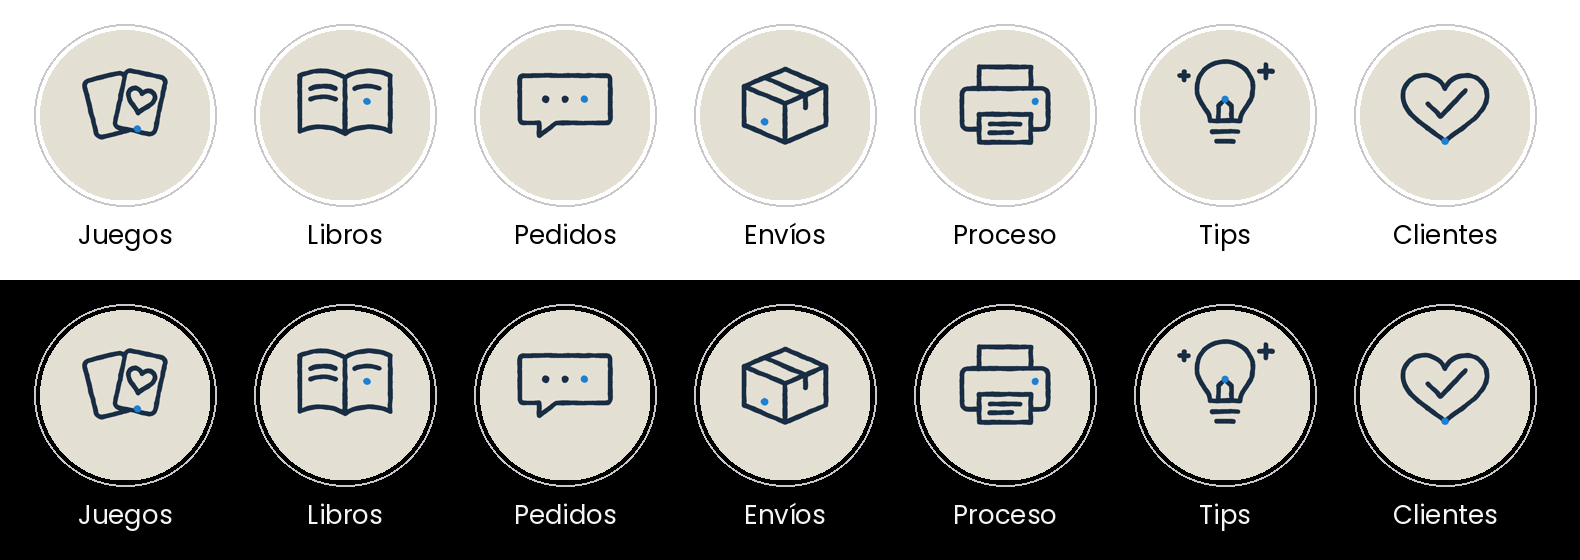
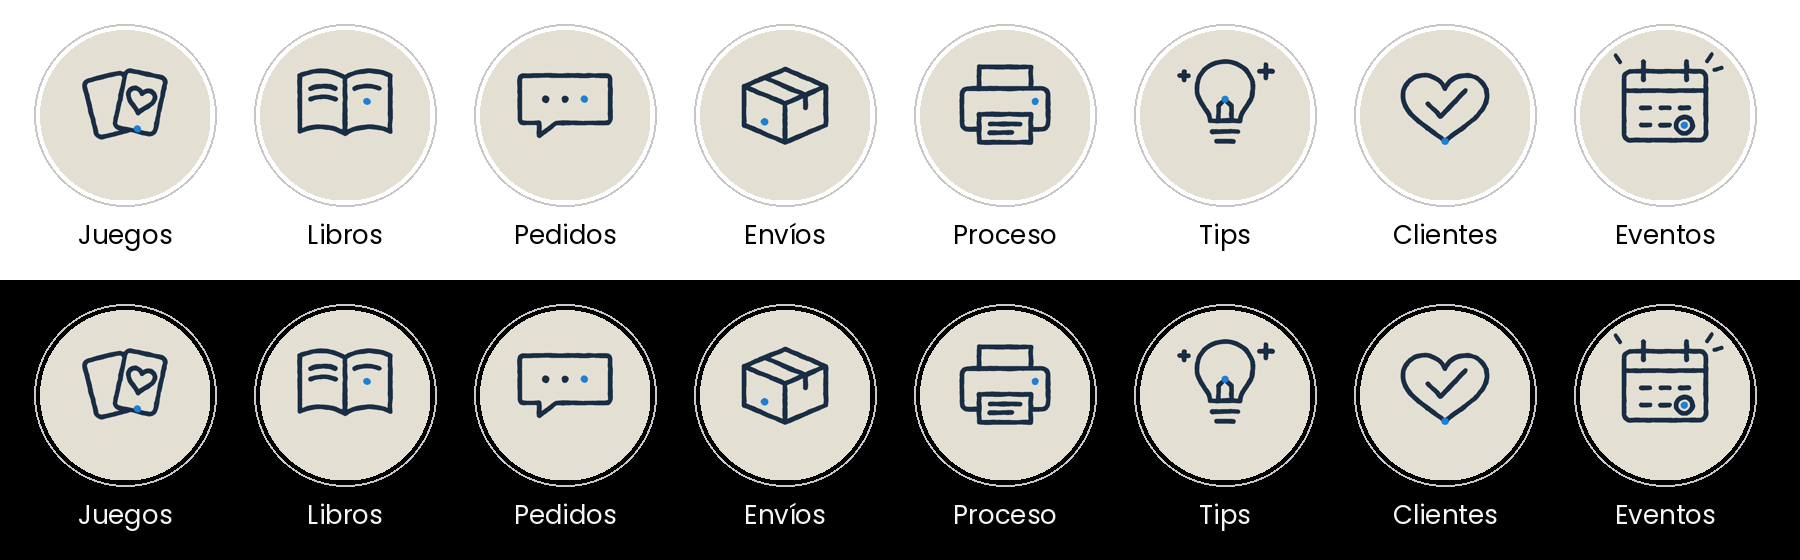
Redes: portada de destacada «Eventos»
Claude-Session: https://claude.ai/code/session_01FGxw9aPArw9pn3yxwBbtRR

diff --git a/redes/destacadas/generar.py b/redes/destacadas/generar.py
@@ -52,9 +52,16 @@ ICONOS = {
       <path d="M0 -60C-50 -160 -200 -130 -195 -20C-190 70 -60 130 0 185C60 130 190 70 195 -20C200 -130 50 -160 0 -60Z"/>
       <path d="M-80 10L-20 70L95 -50"/>
       <circle cx="0" cy="185" r="17" fill="{VIVO}" stroke="none"/>""",
+    "eventos": f"""
+      <rect x="-190" y="-140" width="380" height="320" rx="30"/>
+      <path d="M-190 -50H190M-100 -185V-100M100 -185V-100"/>
+      <path d="M-110 30H-70M-20 30H20M70 30H110M-110 110H-70M-20 110H20"/>
+      <circle cx="90" cy="110" r="38" fill="{PAPEL}"/><circle cx="90" cy="110" r="17" fill="{VIVO}" stroke="none"/>
+      <path d="M196 -186L216 -220M228 -146L264 -156M-208 -182L-228 -214" stroke-width="18"/>""",
 }
 NOMBRES = {"juegos": "Juegos", "libros": "Libros", "pedidos": "Pedidos", "envios": "Envíos",
-           "proceso": "Proceso", "tips": "Tips", "clientes": "Clientes"}
+           "proceso": "Proceso", "tips": "Tips", "clientes": "Clientes",
+           "eventos": "Eventos"}
 
 
 def html(icono):
